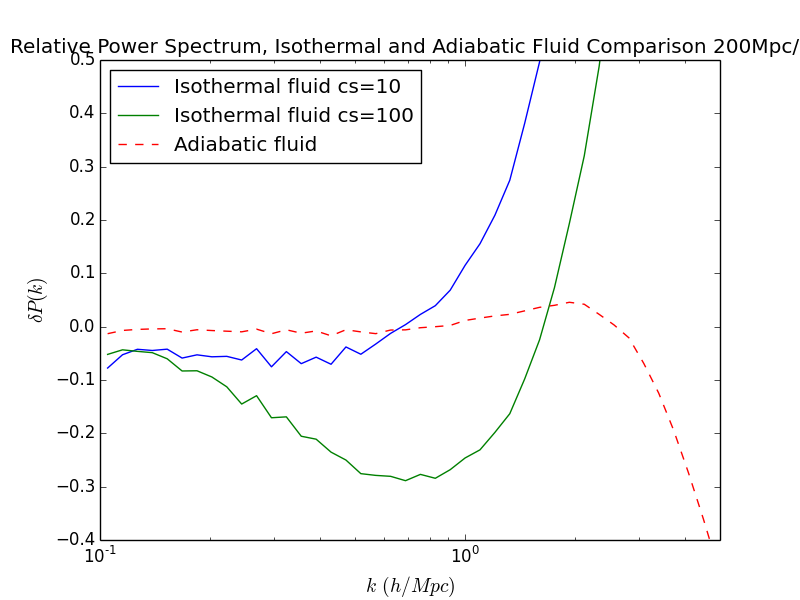
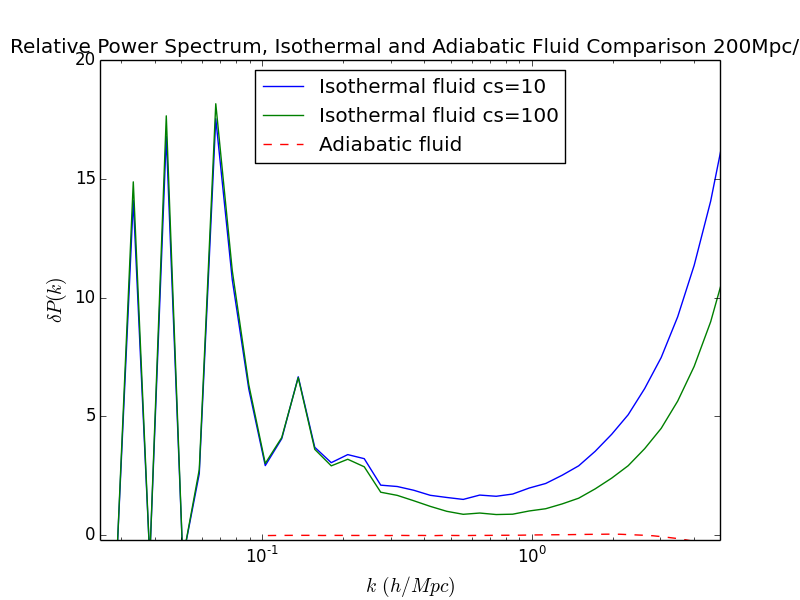
Updated box_200 isothermal results with larger k-range

diff --git a/plots/isothermal/isothermal_fluid_low_adiabatic_normalized_particle_b200.py b/plots/isothermal/isothermal_fluid_low_adiabatic_normalized_particle_b200.py
@@ -31,8 +31,8 @@ for simtype in simtypes:
             ps = (ps - ps_base)/ps_base
             plt.semilogx(kvalues, ps, '--', label='Adiabatic fluid')
 
-plt.xlim([1e-1,5e0])
-plt.ylim([-0.4,0.5])
+plt.xlim([0.025,5e0])
+plt.ylim([-0.2,20])
 plt.xlabel('$k \, (h/Mpc)$', fontsize=14)
 plt.ylabel('$\delta P(k)$', fontsize=14)
 plt.title('Relative Power Spectrum, Isothermal and Adiabatic Fluid Comparison 200Mpc/h')
